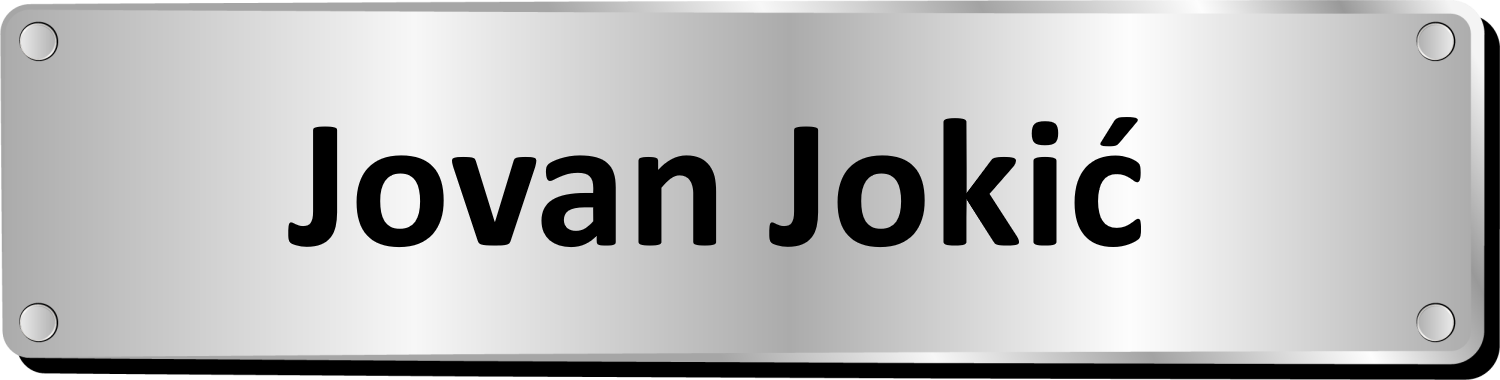
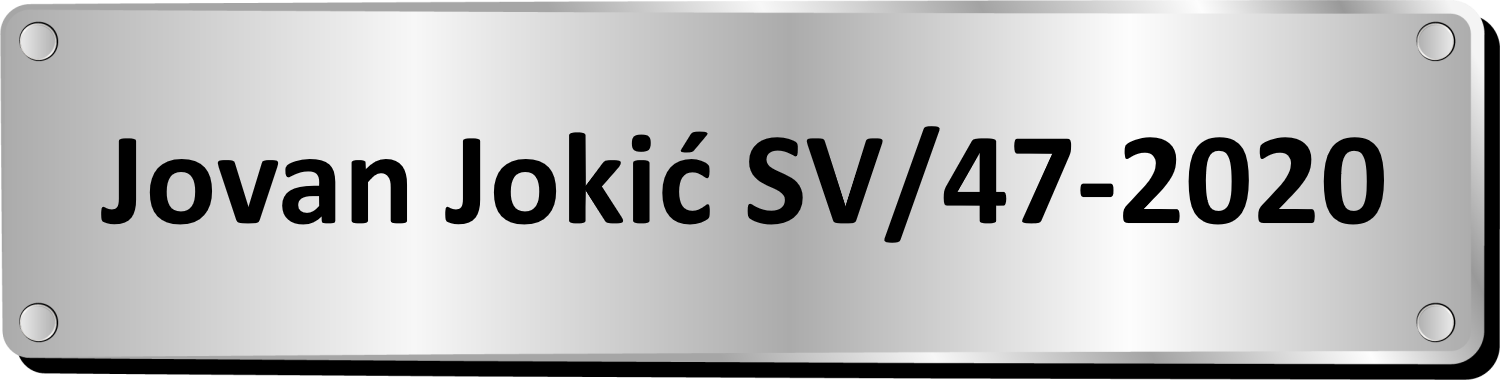
Signature texture updated

Changed region(s): [[0.0613, 0.2895, 0.92, 0.6658]]

diff --git a/2D/Louvre-Exhibition/main.cpp b/2D/Louvre-Exhibition/main.cpp
@@ -175,10 +175,10 @@ int main(void)
 
     float progressBarVertices[] = {
         // X       Y
-       -0.9f,  0.7f, // Gore-Levo
-       -0.9f,  0.8f, // Gore-Desno
-       -0.1f,  0.7f, // Dole-Levo
-       -0.1f,  0.8f  // Dole-Desno
+           -0.9f,  0.7f, // Gore-Levo
+           -0.9f,  0.8f, // Gore-Desno
+           -0.1f,  0.7f, // Dole-Levo
+           -0.1f,  0.8f  // Dole-Desno
     };
 
     float progressBarStride = 2 * sizeof(float);
@@ -200,9 +200,9 @@ int main(void)
 
     float signatureVertices[] = {
         // X       Y       S    T
-           0.5f,  -0.6f,   0.0, 1.0,  // Gore-Levo
+           0.45f,  -0.6f,   0.0, 1.0,  // Gore-Levo
            0.9f,  -0.6f,   1.0, 1.0,  // Gore-Desno
-           0.5f,  -0.9f,   0.0, 0.0,  // Dole-Levo
+           0.45f,  -0.9f,   0.0, 0.0,  // Dole-Levo
            0.9f,  -0.9f,   1.0, 0.0   // Dole-Desno
     };
 
@@ -335,7 +335,7 @@ int main(void)
 
         float currentRotationSpeed = baseRotationSpeed + (maxRotationSpeed - baseRotationSpeed) * progressValue;
         float angle = fmod(currentTime * currentRotationSpeed, 2.0f * 3.14159265358979323846f);
-
+        std::cout << angle << "\n";
         //Crtanje okvira
         for (int i = 0; i < 4; i++)
         {
